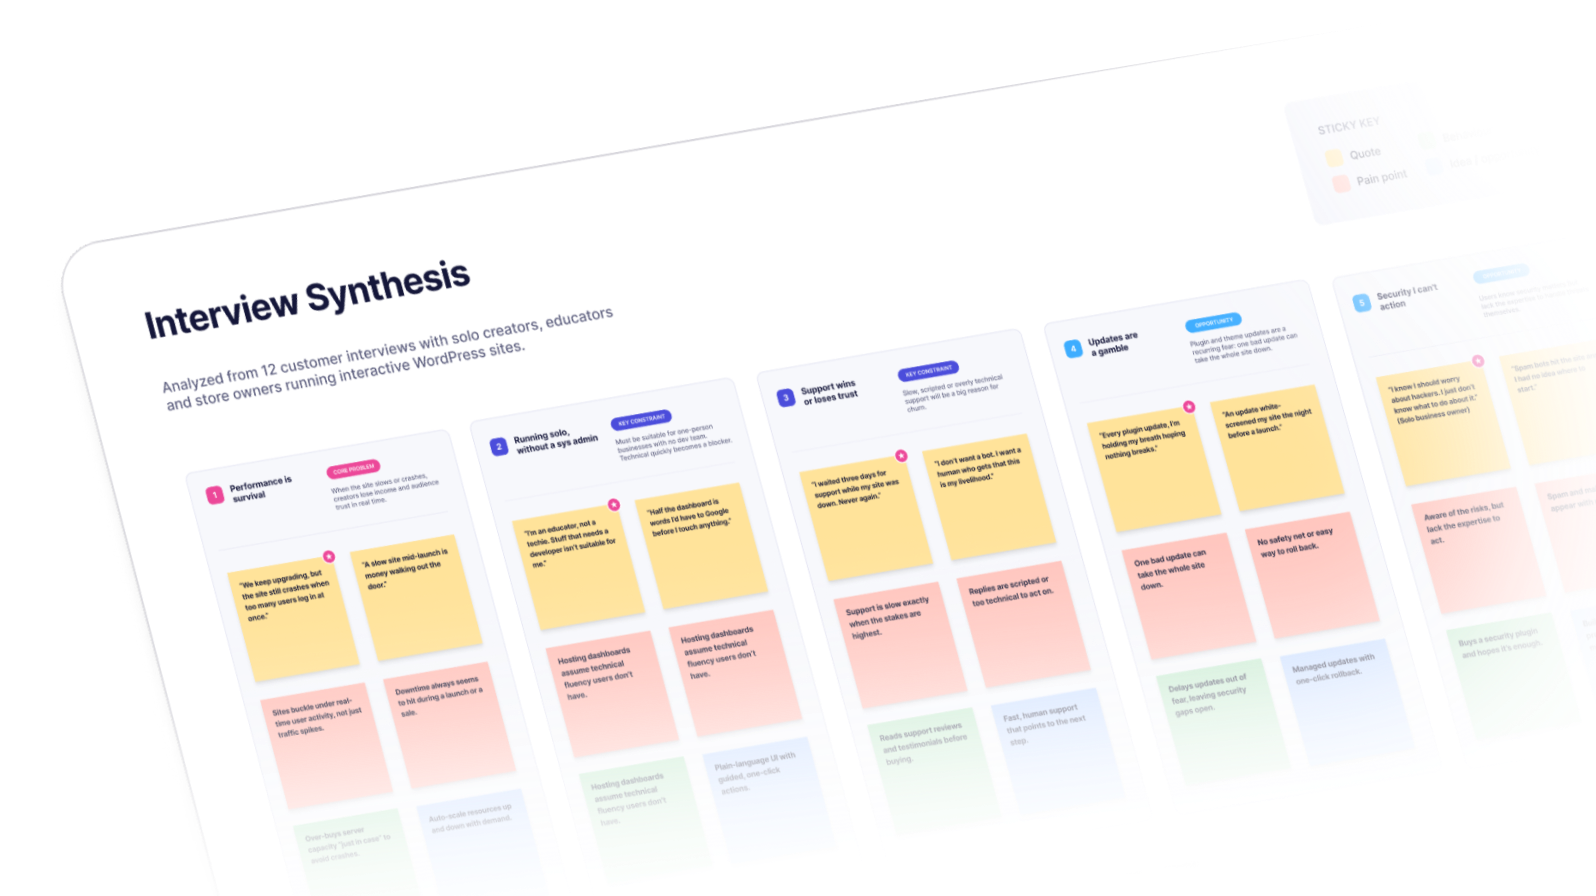
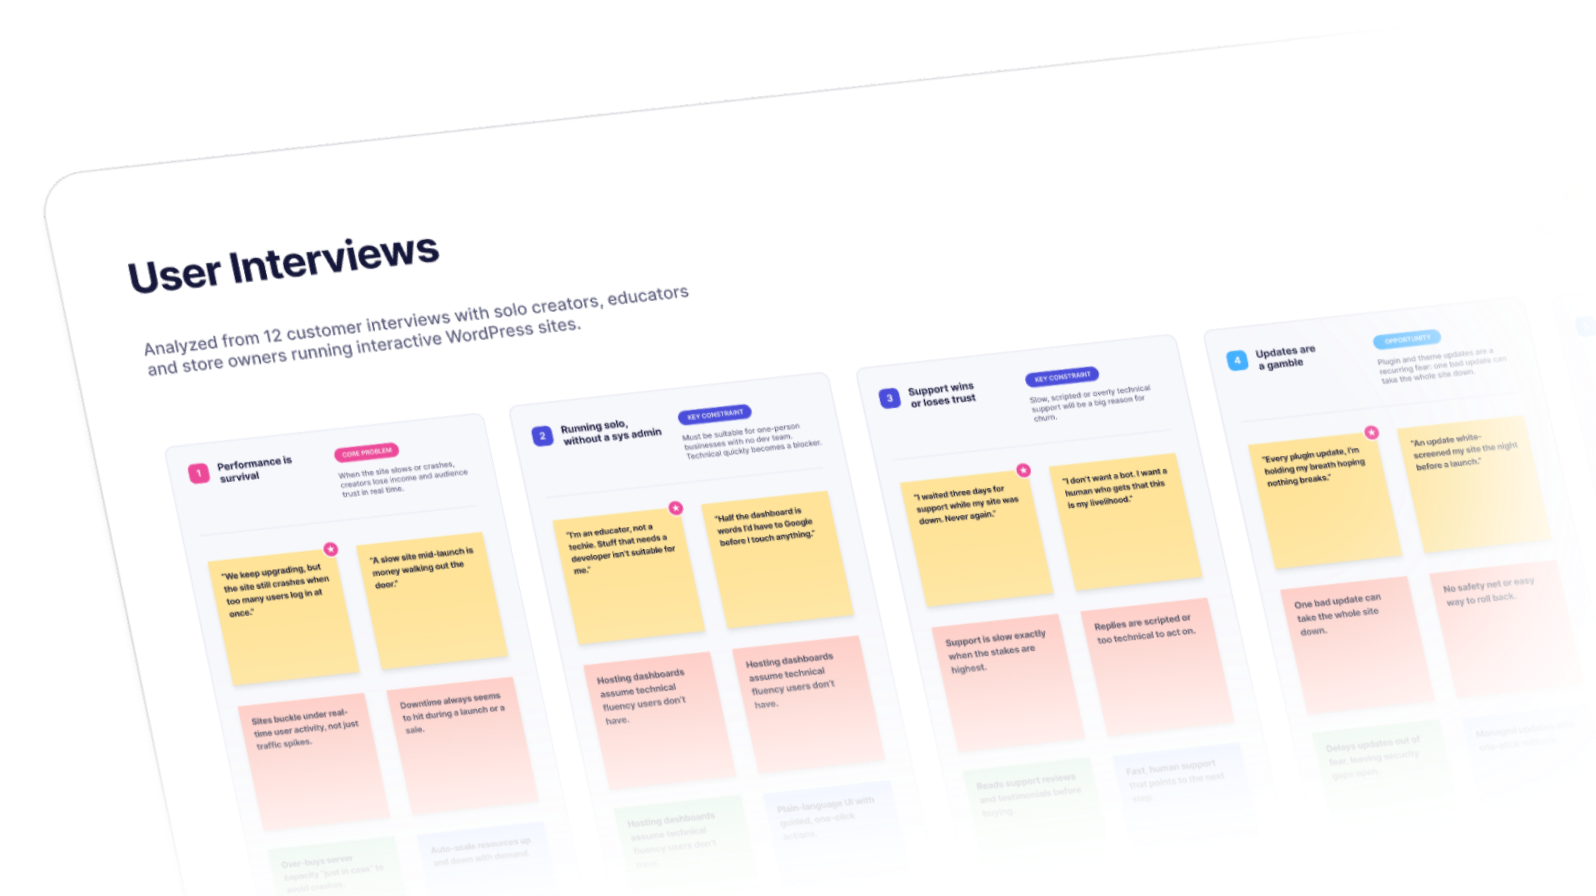
Enhance Rapyd Cloud page with new sections and layout adjustments
- Added Foundations and Design sections to showcase design tokens, component library, low-fidelity wireframes, and developer handoff processes.
- Updated padding in ExpandCardContent for improved spacing.
- Adjusted header height for better visual balance.
- Replaced Logo component with an image for consistency.
- Updated NavigationMenu styles for improved aesthetics.

These changes enrich the content presentation and enhance the overall user experience on the Rapyd Cloud page.

diff --git a/app/work/rapyd-cloud/page.tsx b/app/work/rapyd-cloud/page.tsx
@@ -187,7 +187,7 @@ export default function RapydCloudPage() {
                   className="object-cover"
                 />
               </div>
-              <div className="absolute inset-x-0 bottom-0 flex flex-col gap-2 bg-gradient-to-t from-black/90 to-transparent p-6">
+              <div className="absolute inset-x-0 bottom-0 flex flex-col gap-2 bg-gradient-to-t from-black/90 to-transparent p-7">
                 <h3 className="font-serif text-2xl text-white">Stakeholder inquiry</h3>
                 <p className="max-w-90 text-gray-95">
                   I canvassed prospective customers and surveyed industry leaders to surface pain
@@ -295,6 +295,148 @@ export default function RapydCloudPage() {
                   By mapping the journey from first contact to loyalty, I connected user actions to
                   business outcomes and flagged the friction, emotions, and unmet needs to design
                   around.
+                </p>
+              </ExpandCardContent>
+            </ExpandCard>
+          </div>
+        </Section>
+
+        {/* Foundations */}
+        <Section>
+          <SectionHeader>
+            <SectionKicker>Foundations</SectionKicker>
+            <SectionTitle className="max-w-190">
+              I unified fragmented early-builds into a single governed system that aligned design
+              and engineering.
+            </SectionTitle>
+          </SectionHeader>
+
+          <div className="flex flex-col gap-10 lg:flex-row lg:items-stretch">
+            <div className="flex flex-col gap-10 lg:w-[32rem] lg:shrink-0">
+              <div className="relative flex items-center overflow-clip rounded-lg border border-subtle bg-elevated">
+                <div className="flex flex-col gap-2 p-7 sm:max-w-[62%]">
+                  <h3 className="font-serif text-xl tracking-tight text-fg">Design tokens</h3>
+                  <p className="text-fg-subtle">
+                    Tokens helped maintain a quality experience across devices and provided a single
+                    source of truth between design and engineering.
+                  </p>
+                </div>
+                <Image
+                  src="/images/work/rapyd-cloud/design-tokens.png"
+                  alt="Rapyd brand design tokens defined in Figma variables"
+                  width={206}
+                  height={177}
+                  className="pointer-events-none absolute right-0 top-6 hidden h-auto w-[206px] sm:block"
+                />
+              </div>
+
+              <div className="relative flex flex-col overflow-clip rounded-lg border border-subtle bg-elevated">
+                <div className="flex flex-col gap-2 p-7 pb-1">
+                  <h3 className="font-serif text-xl tracking-tight text-fg">Component library</h3>
+                  <p className="text-fg-subtle">
+                    I delivered a library of reusable UI patterns with production-ready specs that
+                    standardised UI across UX flows and cut design-to-dev handoff time.
+                  </p>
+                </div>
+                <Image
+                  src="/images/work/rapyd-cloud/component-library.png"
+                  alt="Rapyd Cloud component library shown in the Figma assets panel"
+                  width={491}
+                  height={218}
+                  className="pointer-events-none w-full max-w-none object-cover object-top"
+                />
+              </div>
+            </div>
+
+            <ExpandCard
+              expandedImage="/images/work/rapyd-cloud/information-architecture.jpg"
+              expandedAlt="Information architecture map of Rapyd Cloud"
+              className="lg:flex-1"
+            >
+              <ExpandCardCover className="lg:aspect-auto lg:flex-1">
+                <Image
+                  src="/images/work/rapyd-cloud/thumbs/information-architecture.png"
+                  alt="Information architecture map"
+                  width={1596}
+                  height={950}
+                  className="absolute bottom-0 right-0 h-auto w-full max-w-none"
+                />
+                <ExpandButton label="Open information architecture" />
+              </ExpandCardCover>
+              <ExpandCardContent className="shrink-0">
+                <h3 className="font-serif text-xl tracking-tight text-fg">
+                  Information architecture
+                </h3>
+                <p className="text-fg-subtle">
+                  In collaboration with engineering, I mapped every object, action, and relationship
+                  across five top-level areas, building a structure that guides users from setup to
+                  maintenance without jargon, cognitive overload, or dead-ends.
+                </p>
+                <p className="text-fg-subtle">
+                  By mapping this early, we grounded every decision in shipping a product that was
+                  simple to use and easy to scale.
+                </p>
+              </ExpandCardContent>
+            </ExpandCard>
+          </div>
+        </Section>
+
+        {/* Design */}
+        <Section>
+          <SectionHeader>
+            <SectionKicker>Design</SectionKicker>
+            <SectionTitle className="max-w-220">
+              I designed the core flows end to end, from low-fidelity wireframes to production-ready
+              screens ready for handoff.
+            </SectionTitle>
+          </SectionHeader>
+
+          <div className="grid grid-cols-1 gap-10 md:grid-cols-2">
+            <ExpandCard
+              expandedImage="/images/work/rapyd-cloud/lo-fi-wireframes.png"
+              expandedAlt="Low-fidelity wireframes"
+            >
+              <ExpandCardCover>
+                <Image
+                  src="/images/work/rapyd-cloud/thumbs/lo-fi-wireframes.png"
+                  alt="Low-fidelity wireframes"
+                  fill
+                  className="object-cover"
+                />
+                <ExpandButton label="Open low-fidelity wireframes" />
+              </ExpandCardCover>
+              <ExpandCardContent>
+                <h3 className="font-serif text-xl tracking-tight text-fg">
+                  Low-fidelity wireframes
+                </h3>
+                <p className="text-fg-subtle">
+                  The wireframes I provided developed a shared language between design and
+                  engineering. We were able to validate our assumptions before any visual design,
+                  surfacing journey flows early and keeping the initial focus on user needs over
+                  visuals.
+                </p>
+              </ExpandCardContent>
+            </ExpandCard>
+
+            <ExpandCard
+              expandedImage="/images/work/rapyd-cloud/add-domain-flow.png"
+              expandedAlt="Developer handoff"
+            >
+              <ExpandCardCover>
+                <Image
+                  src="/images/work/rapyd-cloud/thumbs/developer-handoff.png"
+                  alt="Developer handoff"
+                  fill
+                  className="object-cover"
+                />
+                <ExpandButton label="Open developer handoff" />
+              </ExpandCardCover>
+              <ExpandCardContent>
+                <h3 className="font-serif text-xl tracking-tight text-fg">Developer handoff</h3>
+                <p className="text-fg-subtle">
+                  I brought every core flow to full fidelity, accounting for edge cases and empty
+                  states, applying the design system end to end, annotating every screen for smooth
+                  dev handoff, and tracking version history through engineering.
                 </p>
               </ExpandCardContent>
             </ExpandCard>

diff --git a/src/components/Navbar/Navbar.tsx b/src/components/Navbar/Navbar.tsx
@@ -1,4 +1,3 @@
-import { Logo } from '@/components/Logo';
 import { NavigationMenu } from '@/components/NavigationMenu';
 
 import { NavbarButton } from './NavbarButton';
@@ -11,7 +10,7 @@ export function Navbar({ pathname }: NavbarProps) {
   return (
     <div className="flex w-full items-center justify-between">
       <div className="flex flex-1 items-center">
-        <Logo className="h-14 w-auto text-gray-70" strokeWidth={0.9} />
+        <img src="/images/logo.svg" alt="Logo" className="h-[56px] w-[46px]" />
       </div>
 
       <NavigationMenu pathname={pathname} />

diff --git a/src/components/ExpandCard/ExpandCardContent.tsx b/src/components/ExpandCard/ExpandCardContent.tsx
@@ -7,7 +7,7 @@ type ExpandCardContentProps = {
 
 export function ExpandCardContent({ children, className }: ExpandCardContentProps) {
   return (
-    <div className={cn('flex flex-col gap-2 p-6 text-md text-fg-subtle', className)}>
+    <div className={cn('flex flex-col gap-2 p-7 text-md text-fg-subtle', className)}>
       {children}
     </div>
   );

diff --git a/src/components/Header/Header.css b/src/components/Header/Header.css
@@ -1,6 +1,6 @@
 @layer base {
   :root {
     --header-h-mobile: 6rem;
-    --header-h-desktop: 8rem;
+    --header-h-desktop: 7.5rem;
   }
 }

diff --git a/src/components/Header/Header.tsx b/src/components/Header/Header.tsx
@@ -99,7 +99,7 @@ export function Header() {
         className="group sticky w-[100%] top-0 z-50 will-change-transform [transition:transform_240ms_cubic-bezier(0.16,1,0.3,1)]"
       >
         {/* Desktop */}
-        <div className="hidden h-[var(--header-h-desktop)] items-center px-md md:flex group-data-[sticky=true]:bg-gray-10">
+        <div className="hidden h-[var(--header-h-desktop)] items-center px-8 md:flex group-data-[sticky=true]:bg-gray-10/88 group-data-[sticky=true]:backdrop-blur-sm">
           <Navbar pathname={pathname} />
         </div>
 

diff --git a/src/components/Navbar/NavbarButton.tsx b/src/components/Navbar/NavbarButton.tsx
@@ -13,7 +13,7 @@ export function NavbarButton({ className }: NavbarButtonProps) {
       target="_blank"
       rel="noopener noreferrer"
       className={cn(
-        'flex h-9 items-center gap-[10px] whitespace-nowrap rounded-full px-4 text-sm tracking-wide font-medium text-white transition-opacity hover:underline [&_svg]:size-5',
+        'flex h-9 items-center gap-[10px] whitespace-nowrap rounded-full px-4 text-sm tracking-wide font-medium text-white/90 transition-opacity hover:underline [&_svg]:size-6',
         className
       )}
     >

diff --git a/src/components/NavigationMenu/NavigationMenu.tsx b/src/components/NavigationMenu/NavigationMenu.tsx
@@ -8,7 +8,7 @@ type NavigationMenuProps = {
 
 export function NavigationMenu({ pathname }: NavigationMenuProps) {
   return (
-    <nav className="flex items-center p-0.5 border border-gray-45 rounded-full gap-1">
+    <nav className="flex items-center p-0.5 border border-white/18 rounded-full gap-1">
       {NAV_ITEMS.map(({ href, text }) => (
         <NavigationMenuItem key={href} href={href} text={text} active={pathname === href} />
       ))}

diff --git a/src/components/NavigationMenu/NavigationMenuItem.tsx b/src/components/NavigationMenu/NavigationMenuItem.tsx
@@ -14,7 +14,7 @@ export function NavigationMenuItem({ href, text, active }: NavigationMenuItemPro
       href={href}
       className={cn(
         'flex h-9 items-center justify-center whitespace-nowrap rounded-full px-4.5 text-sm tracking-wide font-medium transition-colors',
-        active ? 'bg-gray-40 text-white' : 'text-gray-70 hover:text-white'
+        active ? 'bg-white/12 text-white' : 'text-gray-80 hover:text-white'
       )}
     >
       {text}